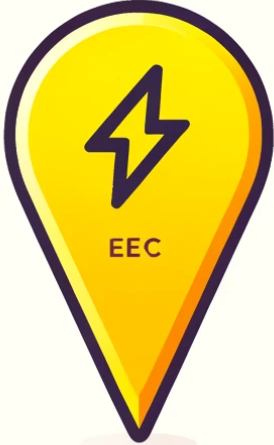
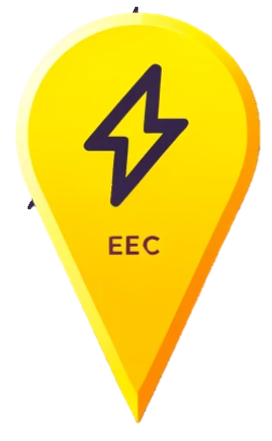
4월24일
주유소 api 호출
마커로 표시
팝업창 표시

Changed region(s): [[0.0, 0.0, 1.0, 1.0]]

diff --git a/src/kako_map/gas_station.js b/src/kako_map/gas_station.js
@@ -1,76 +1,123 @@
-import { useState } from "react"
-import { Map, MapTypeId } from "react-kakao-maps-sdk"
-import useKakaoLoader from "./useKakaoLoader"
 
-export default function GasStation() {
-    useKakaoLoader()
-    const [overlayMapTypeId, setOverlayMapTypeId] = useState({
-        TRAFFIC: false,
-        BICYCLE: false,
-        TERRAIN: false,
-        USE_DISTRICT: false,
-    })
+import React, { useState, useEffect } from 'react';
+import axios from 'axios';
+import { Map, MapMarker, MapInfoWindow } from "react-kakao-maps-sdk";
+
+
+
+function Popup({ station, onClose }) {
+    if (!station) return null; // 선택된 주유소가 없다면 팝업을 렌더링하지 않음
+
+    // 팝업창 위치와 크기 설정
+    const popupStyle = {
+        position: 'absolute',
+        bottom: '150px', // 마커 위치에 따라 조절 필요
+        left: '50%',
+        transform: 'translateX(-50%)',
+        width: '200px',
+        padding: '15px',
+        border: '1px solid #ccc',
+        borderRadius: '5px',
+        backgroundColor: '#fff',
+        fontSize: '12px',
+        textAlign: 'center',
+        zIndex: 100,
+    };
 
     return (
-        <>
-            <Map // 지도를 표시할 Container
-                id="map"
-                center={{
-                    // 지도의 중심좌표
-                    lat: 37.57319,
-                    lng: 126.96658,
-                }}
-                style={{
-                    width: "100%",
-                    height: "90%",
-                }}
-                level={7}
-            >
-                {overlayMapTypeId.TRAFFIC && <MapTypeId type={"TRAFFIC"} />}
-                {overlayMapTypeId.BICYCLE && <MapTypeId type={"BICYCLE"} />}
-                {overlayMapTypeId.TERRAIN && <MapTypeId type={"TERRAIN"} />}
-                {overlayMapTypeId.USE_DISTRICT && <MapTypeId type={"USE_DISTRICT"} />}
-            </Map>
-            <p>
-                <input
-                    type="checkbox"
-                    id="chkUseDistrict"
-                    onChange={(e) =>
-                        setOverlayMapTypeId((p) => ({
-                            ...p,
-                            USE_DISTRICT: e.target.checked,
-                        }))
-                    }
+        <div style={popupStyle}>
+            <div style={{ display: 'flex', justifyContent: 'space-between', marginBottom: '10px' }}>
+                <span style={{ fontWeight: 'bold' }}>{station.name}</span>
+                <img
+                    src={`img/brand-icons/${station.brand}.png`}
+                    alt={station.brand}
+                    style={{ width: '40px', height: '40px' }}
                 />
-                {" 지적편집도 정보 보기 "}
-                <input
-                    type="checkbox"
-                    id="chkTerrain"
-                    onChange={(e) =>
-                        setOverlayMapTypeId((p) => ({ ...p, TERRAIN: e.target.checked }))
-                    }
-                />
-                {" 지형정보 보기 "}
-                <input
-                    type="checkbox"
-                    id="chkTraffic"
-                    onChange={(e) =>
-                        setOverlayMapTypeId((p) => ({ ...p, TRAFFIC: e.target.checked }))
-                    }
-                />
-                {" 교통정보 보기 "}
-                <input
-                    type="checkbox"
-                    id="chkBicycle"
-                    onChange={(e) =>
-                        setOverlayMapTypeId((p) => ({
-                            ...p,
-                            BICYCLE: e.target.checked,
-                        }))
-                    }
-                />
-                {" 자전거도로 정보 보기 "}
-            </p>
-        </>
-    )
+            </div>
+            <div style={{ margin: '10px 0' }}>
+                <p><strong>가격:</strong> {station.price}원</p>
+                <p><strong>거리:</strong> {station.distance}m</p>
+            </div>
+            <button onClick={onClose} style={{
+                cursor: 'pointer',
+                backgroundColor: '#f00',
+                color: '#fff',
+                border: 'none',
+                borderRadius: '5px',
+                padding: '5px 10px',
+                margin: '5px 0'
+            }}>
+                닫기
+            </button>
+        </div>
+    );
 }
+// =================================================================================================================
+
+
+function GasStation() {
+    const [state, setState] = useState({
+        center: { lat: 33.450701, lng: 126.570667 },
+        stations: [],
+        errMsg: null,
+        isLoading: true,
+        selectedStation: null,
+    });
+
+    useEffect(() => {
+        const fetchStations = (position) => {
+            const { latitude, longitude } = position.coords;
+            axios.post('http://localhost:5000/get-stations', { latitude, longitude })
+                .then(response => {
+                    setState(prev => ({
+                        ...prev,
+                        center: { lat: latitude, lng: longitude },
+                        stations: response.data,
+                        isLoading: false
+                    }));
+                })
+                .catch(error => {
+                    setState(prev => ({
+                        ...prev,
+                        errMsg: '주유소 정보를 가져오는데 실패했습니다.',
+                        isLoading: false
+                    }));
+                });
+        };
+
+        navigator.geolocation.getCurrentPosition(fetchStations, (err) => {
+            setState(prev => ({ ...prev, errMsg: err.message, isLoading: false }));
+        });
+    }, []);
+
+    const onMarkerClick = (station) => {
+        setState(prev => ({ ...prev, selectedStation: station }));
+    };
+
+    const closeInfoWindow = () => {
+        setState(prev => ({ ...prev, selectedStation: null }));
+    };
+
+
+    return (
+        <div style={{ width: "100%", height: "100%", position: 'relative' }}> {/* 팝업을 위한 상대 위치 설정 */}
+            <Map center={state.center} style={{ width: "100%", height: "100%" }} level={3}>
+                <MapMarker position={state.center} />
+                {!state.isLoading && state.stations.map(station => (
+                    <MapMarker
+                        key={station.name}
+                        position={{ lat: station.latitude, lng: station.longitude }}
+                        image={{
+                            src: "img/fuel.png", // Replace with actual marker image path
+                            size: { width: 24, height: 35 },
+                        }}
+                        onClick={() => onMarkerClick(station)}
+                    />
+                ))}
+            </Map>
+            <Popup station={state.selectedStation} onClose={closeInfoWindow} />
+        </div>
+    );
+}
+
+export default GasStation;

diff --git a/src/routes/map_ui.module.css b/src/routes/map_ui.module.css
@@ -202,8 +202,6 @@
     /* 아이콘 스타일 */
     width: 70px; /* 혹은 실제 아이콘 크기에 맞게 조절 */
     height: 100px;
-    background-color: #e0e0e0; /* 예시 색상 */
-    border-radius: 40%; /* 원형으로 */
     display: flex;
     align-items: center;
     margin-left: 65px;
@@ -214,7 +212,6 @@
     /* 아이콘 스타일 */
     width: 70px; /* 혹은 실제 아이콘 크기에 맞게 조절 */
     height: 100px;
-    background-color: #e0e0e0; /* 예시 색상 */
     border-radius: 40%; /* 원형으로 */
     display: flex;
     align-items: center;
